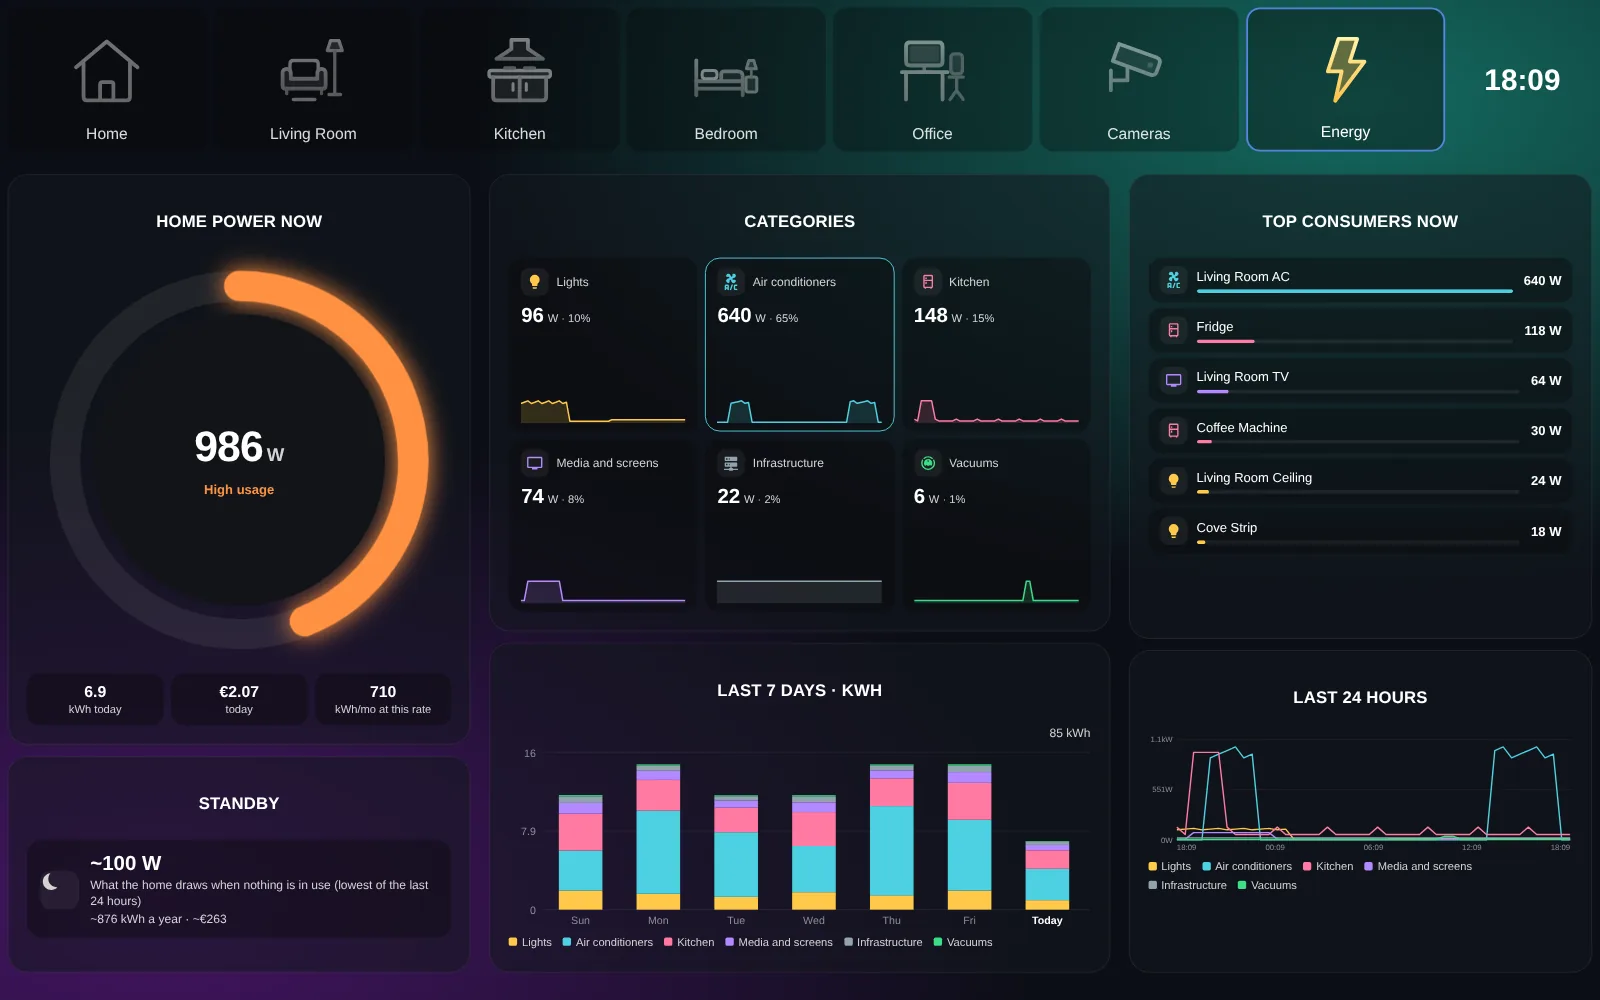
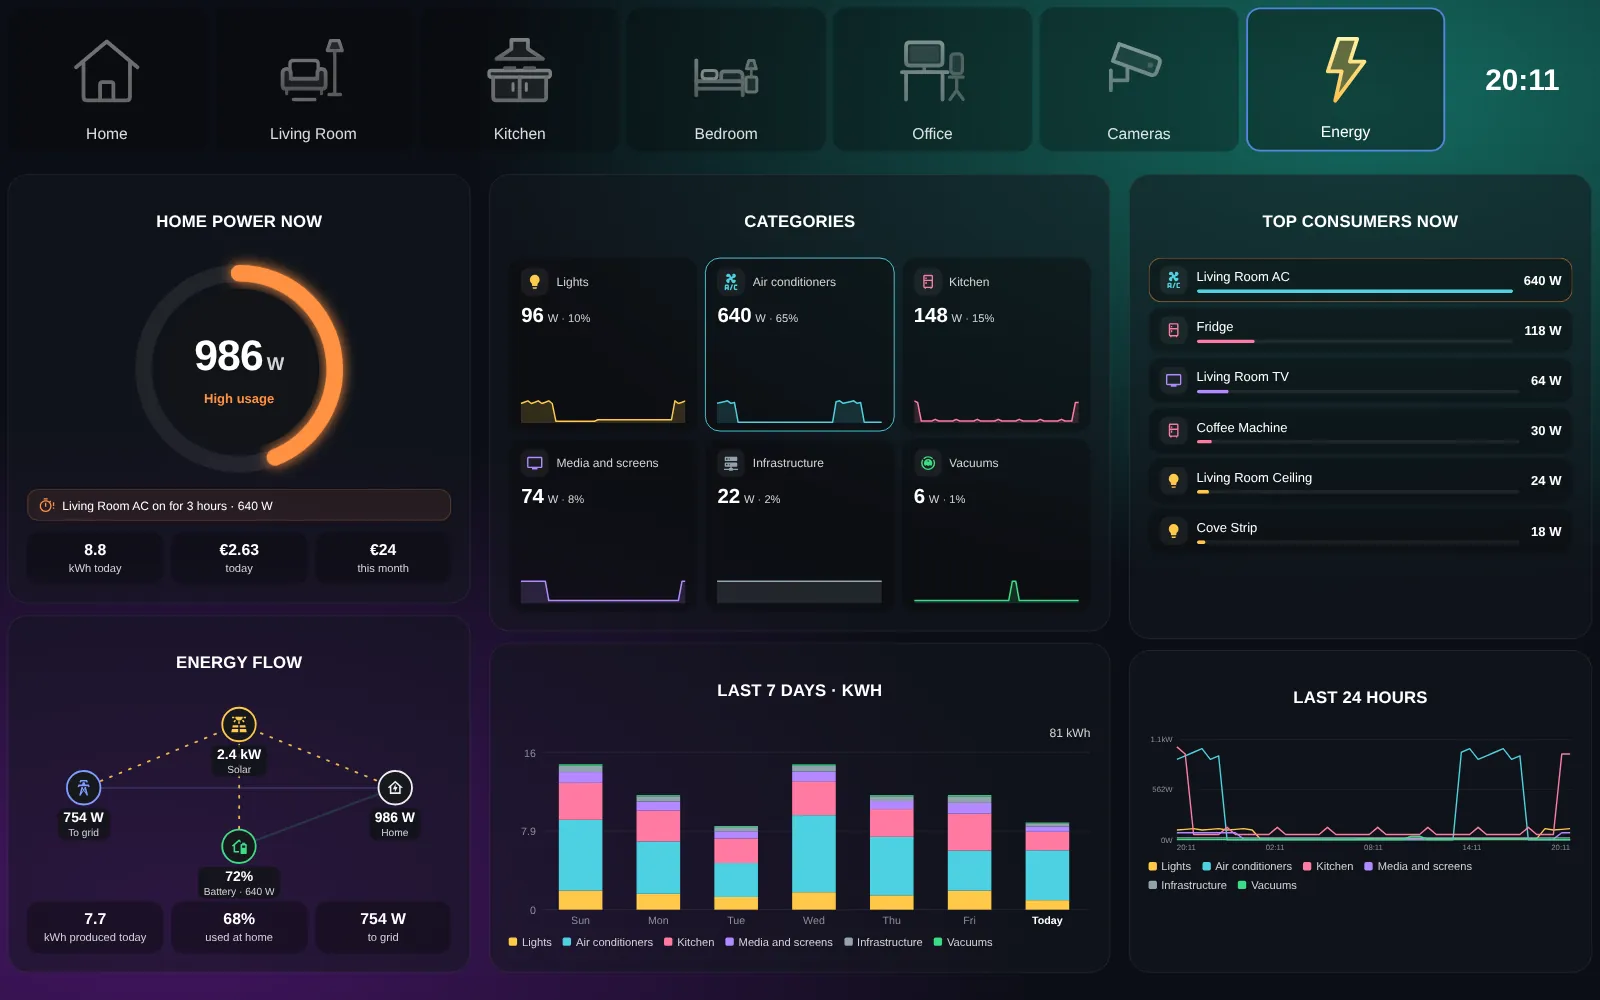
README: enerji ve perde penceresi öne çıkanlarda, görselleriyle

diff --git a/README.en.md b/README.en.md
@@ -2,7 +2,7 @@
 
 **[Türkçe](README.md)** · English
 
-A ready-made, full-screen home dashboard for Home Assistant. Add the integration, and a dashboard with your rooms, lights, scenes, climate, media and camera controls builds itself from the devices in your home. Designed for wall tablets and kiosk screens, and it works on phones too.
+A ready-made, full-screen home dashboard for Home Assistant. Add the integration, and a dashboard with your rooms, lights, scenes, climate, cover, media and camera controls and energy tracking builds itself from the devices in your home. Designed for wall tablets and kiosk screens, and it works on phones too.
 
 ![Lemur Home Dashboard in use](https://raw.githubusercontent.com/mendebur-lemur/lemur-home-dashboard/main/docs/images/demo.webp)
 
@@ -17,6 +17,8 @@ A ready-made, full-screen home dashboard for Home Assistant. Add the integration
 - **Light window.** Hold a light tile to open a light window with a big brightness slider, white tones, a colour wheel, preset colours, effects and (if the light has them) segments. You can switch to Home Assistant's own dialog in the settings.
 - **Instant response.** Tap a light, switch or fan and the tile changes without waiting for the device; turning a light on shows its last colour. If the device reports something else, the real state is shown.
 - **Feeding card.** A feeding reminder for a cat, dog, fish...: green on time, red when late; tap "Fed", get a phone notification when late, optionally run an automatic feeder.
+- **Cover window.** Hold a cover tile for a window drawing that shows the cover at its real position, with Open, Stop and Close below. Six designs (center opening and one-side curtains, shutter, roller shade, venetian and vertical blinds); drag the drawing to fine-tune the position, and the slat angle on blinds.
+- **Energy tracking, no other add-on.** A ready Energy tab: home power now, categories, top consumers now, daily usage, the last 24 hours; with solar, the energy flow and the battery. Devices that measure power are added with one tap; the others get a virtual measurement (a light by brightness, a TV by state, a fridge from the label's yearly kWh). Tiered prices, a yearly limit and bills for the real unit price. No notifications: tips like "AC on for 3 hours" quietly rotate under the Halo. Definitions from another add-on are imported in one go.
 - **Cameras.** Cameras show as snapshot tiles that refresh every few seconds; tap one for the live view. A tile says so when the camera is off or gives no picture.
 - **Card picker.** Pick Halo cards, Home Assistant cards and installed custom cards from a list; they are added with the card's own visual editor and a live preview.
 - **Backup control and wall switches (Advanced).** A lamp that shows up in two integrations (e.g. Govee LAN and Matter) gets a backup: the command goes the fast way, and if the lamp does not answer it is sent again through the backup. A wall relay that only gives a signal is bound to a lamp; the switch keeps working even when the internet or Wi-Fi comes and goes.
@@ -201,6 +203,8 @@ The window closes with the back button, Esc or ✕. You can switch to Home Assis
 
 ## Cover window
 
+![Cover window](https://raw.githubusercontent.com/mendebur-lemur/lemur-home-dashboard/main/docs/guide/en/cover-window.webp)
+
 Long press a cover tile. At the top you see the name and state (opening, closing, how far open), in the middle a window drawing that shows the cover at its real position, and below **Open**, **Stop**, **Close**. While the cover moves, pressing the same button again stops it. If the device supports a position, drag the drawing to fine-tune it.
 
 There are six designs: center opening curtain, one-side curtain, shutter, roller shade, venetian blind and vertical blind. Pick one in the cover's ⚙ settings under **Cover window**; on Auto it follows the device type. One-side curtains and vertical blinds also let you choose which side they gather to (left, right, or both sides for vertical blinds). The settings show each design as a small window drawing. Venetian and vertical blinds get a second Open, Stop, Close row for the slat angle when the device supports it. If a separate motor turns the slats (a second cover entity in Home Assistant), pick it as the **Slat angle motor** in the ⚙ settings; the slat row then drives that motor, with 0-100% presets if it reports a position.
@@ -219,7 +223,11 @@ Devices and categories come from the **Energy** page in the admin panel. If it h
 - **Daily usage** (7 or 30 days, kWh or money), **Last 24 hours** (category lines or total) and **Standby usage**.
 - **Energy flow:** the power flowing between solar, grid, home and battery right now; below it today's production, the share used at home and what goes to the grid. **Battery:** charge, kWh, charging or discharging and time left.
 
+![Energy tab](https://raw.githubusercontent.com/mendebur-lemur/lemur-home-dashboard/main/docs/guide/en/energy.webp)
+
 **Energy page** (**Energy** in the admin panel's top bar):
+
+![Energy page: devices and power by state](https://raw.githubusercontent.com/mendebur-lemur/lemur-home-dashboard/main/docs/guide/en/energy-settings.webp)
 
 - **Devices:** devices in Home Assistant that measure power but are not on the dashboard are listed and come in with **Add** (their kWh sensor is found too; without one the dashboard counts kWh from the power). For devices that do not measure, a virtual measurement: light (standby, lowest and highest W, by brightness; e.g. a 2-60 W light at 30% is 19.4 W), **by state** (a W value per state: a TV at 95 W playing, 70 W paused, 28 W idle; an AC cooling, heating, fan), on/off, fixed, yearly usage (the label's kWh/year; 250 kWh/year ≈ 28.5 W) or cycles (kWh/100 cycles, cycles per week). The integration sets up `sensor.lhd_<name>_power` and `sensor.lhd_<name>_energy` for each. Cards show them with "~".
 - **Categories:** name, color and the devices in it. Each category gets `sensor.lhd_kat_<name>_power` and `_energy` (the sum of its devices).
@@ -286,6 +294,8 @@ After an update, if the dashboard or the admin panel is open, a "A new version i
 | Home tab | Room tab |
 |---|---|
 | ![Home tab](https://raw.githubusercontent.com/mendebur-lemur/lemur-home-dashboard/main/docs/images/dashboard.png) | ![Room tab](https://raw.githubusercontent.com/mendebur-lemur/lemur-home-dashboard/main/docs/images/room.png) |
+| **Energy** | **Phone** |
+| ![Energy](https://raw.githubusercontent.com/mendebur-lemur/lemur-home-dashboard/main/docs/guide/en/energy.webp) | ![Phone](https://raw.githubusercontent.com/mendebur-lemur/lemur-home-dashboard/main/docs/guide/en/phone.webp) |
 | **Admin panel** | **Auto setup** |
 | ![Admin panel](https://raw.githubusercontent.com/mendebur-lemur/lemur-home-dashboard/main/docs/images/admin.png) | ![Auto setup](https://raw.githubusercontent.com/mendebur-lemur/lemur-home-dashboard/main/docs/images/auto-setup.png) |
 
